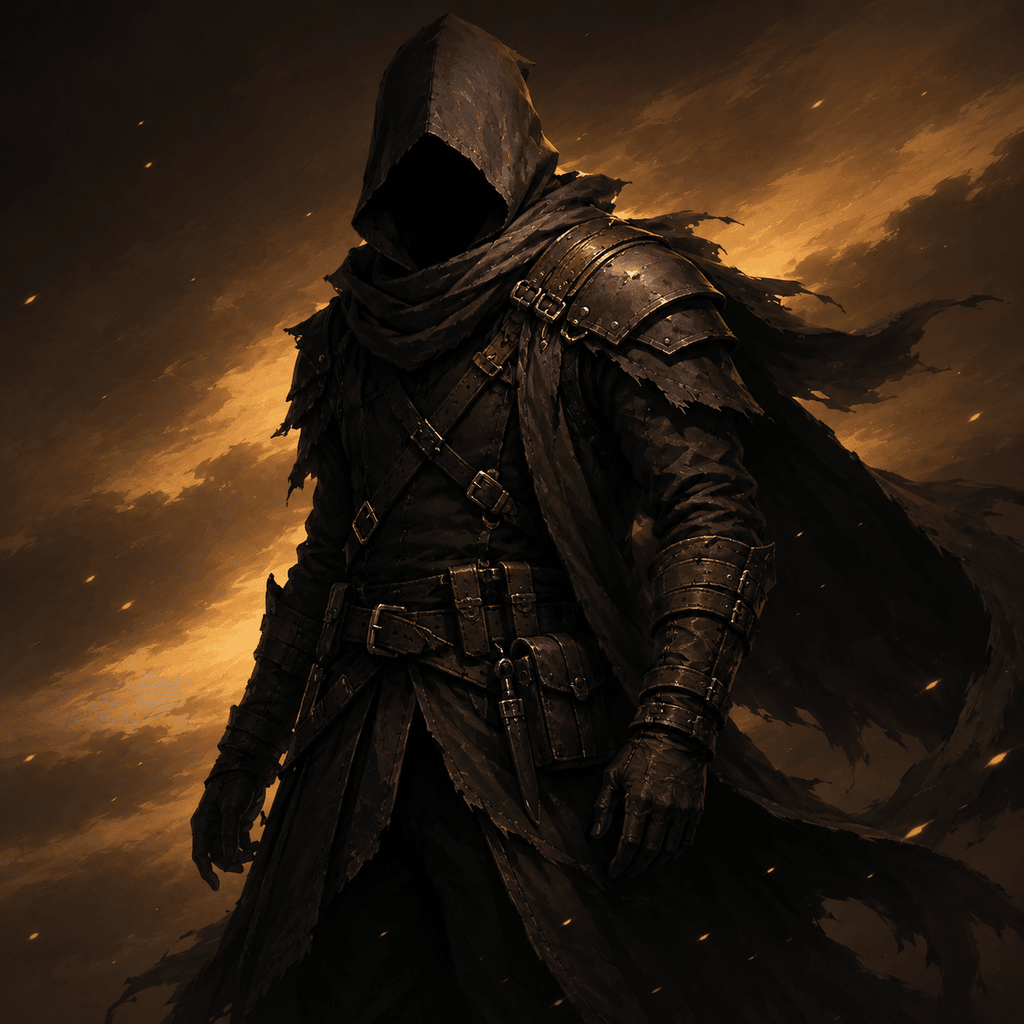
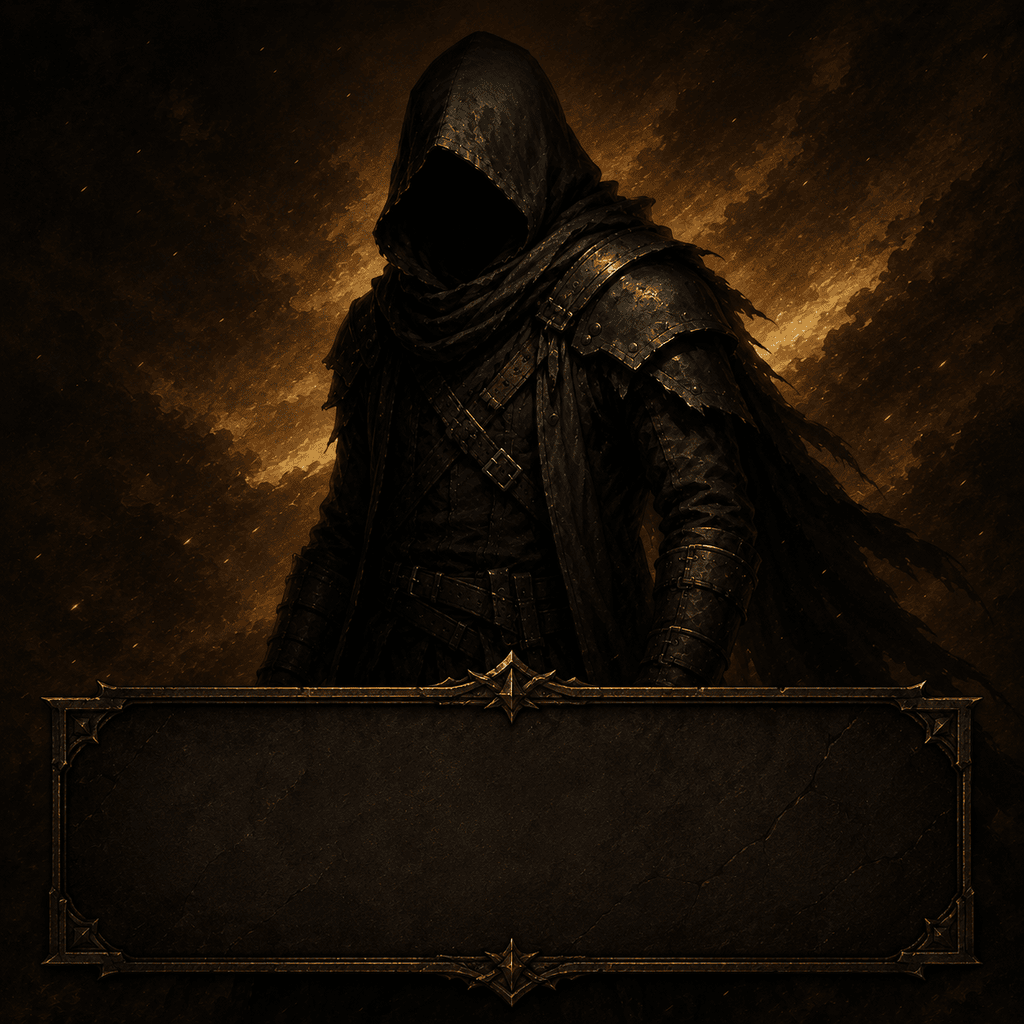
I NEED TO FIX LOGIC

diff --git a/main.py b/main.py
@@ -2,7 +2,7 @@
 import pygame
 import random
 from player import *
-from doorN import *
+
 #-----------------------------------------------------------
 #initialization
 pygame.init()
@@ -13,10 +13,36 @@ pygame.display.set_caption("Escape Root")
 #constants and variables
 SCREEN_WIDTH = 1024
 SCREEN_HEIGHT = 1024
+class Doors:
+    def __init__(self, screen, direction):
+        self.screen = screen
+        self.image = pygame.image.load(doorMode).convert_alpha()
+        self.image = pygame.transform.scale(self.image, (int(self.image.get_width()/4), int(self.image.get_height()/4)))
+        self.rect = self.image.get_rect()
+        if direction == "up":
+            self.rect.center = (500, 126)
+            self.image = pygame.transform.scale_by(self.image, 1.6)
+        elif direction == "down":
+            self.rect.center = (512, 900)
+            self.image = pygame.transform.rotate(self.image, 180)
+        elif direction == "left":
+            self.rect.center = (145, 512)
+            self.image = pygame.transform.rotate(self.image, 90)
+        elif direction == "right":
+            self.rect.center = (915, 512)
+            self.image = pygame.transform.rotate(self.image, 270)
+    def blit(self):
+        self.screen.blit(self.image, self.rect)
+        
+doorModeBright = "door.png"
+doorModeDark = "doorDarkmode.png"
+doorMode = doorModeDark
 scoreFont = pygame.font.SysFont("Arial", 30)
 screen = pygame.display.set_mode((SCREEN_WIDTH, SCREEN_HEIGHT))
 clock = pygame.time.Clock()
-background = pygame.image.load("arena.png")
+arena = pygame.image.load("arena.png")
+arenaDarkmode = pygame.image.load("arenaDarkmode.png")
+mapsblit = arena
 logo = pygame.image.load("logo.png")
 enemy = pygame.image.load("enemy.png")
 musicMenu = pygame.image.load("musicMenu.png")
@@ -198,7 +224,7 @@ while run == True:
     if currentRoom in trapRooms:
         screen.blit(enemy, (0, 0))
         deathMessage = random.choice(deathText)
-        loseText = scoreFont.render(deathMessage.format(deathMessage=deathMessage), True, (255, 255, 0))
+        loseText = scoreFont.render(deathMessage.format(deathMessage=deathMessage), True, (255, 255, 255))
         screen.blit(loseText, (100, 800))
         pygame.display.update()
         pygame.time.delay(3000)
@@ -207,16 +233,27 @@ while run == True:
         restart = True
     if keys[pygame.K_ESCAPE]:
         run = False
+    if keys[pygame.K_u]:
+        if mapsblit == arena:
+            mapsblit = arenaDarkmode
+            doorMode = doorModeDark
+            pygame.time.delay(500)
+
+        elif mapsblit == arenaDarkmode:
+            mapsblit = arena
+            doorMode = doorModeBright
+            pygame.time.delay(500)
+
     if timer <= 0:
         screen.blit(enemy, (0, 0))
-        timeOver = scoreFont.render("Time's Up! You failed to escape in time!(Try to actually move!)", True, (255, 255, 0))
+        timeOver = scoreFont.render("Time's Up! You failed to escape in time!(Try to actually move!)", True, (255, 255, 255))
         screen.blit(timeOver, (100, 800))
         pygame.display.update()
         pygame.time.delay(3000)
         restart = True
 #-----------------------------------------------------------
     #showing entities
-    screen.blit(background, (0, 0))
+    screen.blit(mapsblit, (0, 0))
 
     if showUp == True: 
         doorUp.blit()

diff --git a/doorN.py b/doorN.py
@@ -1,9 +1,9 @@
 import pygame
-
+import main
 class Doors:
     def __init__(self, screen, direction):
         self.screen = screen
-        self.image = pygame.image.load("door.png").convert_alpha()
+        self.image = pygame.image.load(main.doorMode).convert_alpha()
         self.image = pygame.transform.scale(self.image, (int(self.image.get_width()/4), int(self.image.get_height()/4)))
         self.rect = self.image.get_rect()
         if direction == "up":